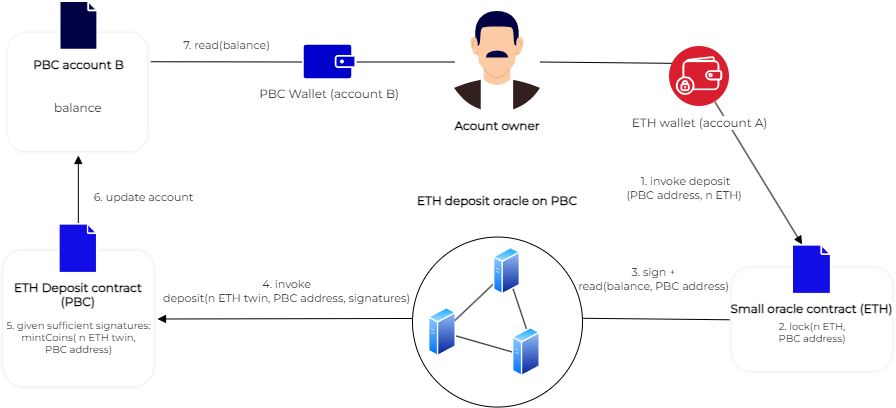
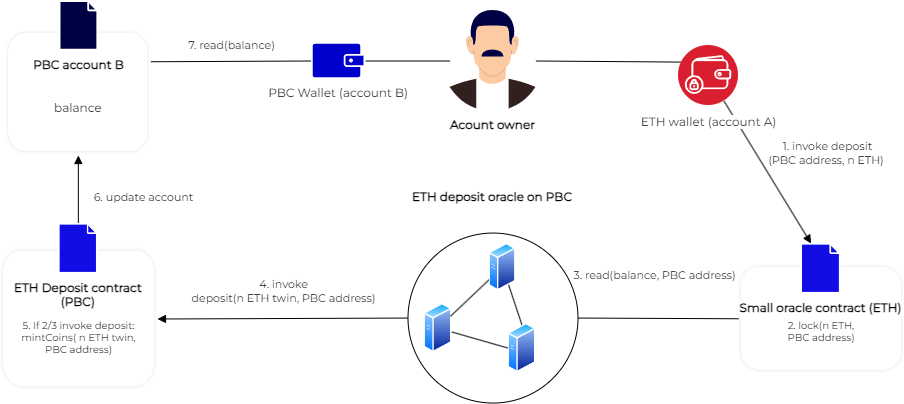
correct deposit flow, invoke does not require signatures

diff --git a/docs/pbc-fundamentals/bridging-byoc-by-sending-transactions.md b/docs/pbc-fundamentals/bridging-byoc-by-sending-transactions.md
@@ -40,9 +40,9 @@ deposit(bytes21 destination, uint amount)
 	* _bytes21_ is the receiving PBC address decoded to bytes 
 	* _amount_ is ETH converted to Wei, minimum amount is 0.1 ETH
 2. The contract locks n ETH
-3. By reading the incoming transaction on the [Small oracle contract on Ethereum](https://etherscan.io/address/0xf393d008077c97f2632fa04a910969ac58f88e3c#writeProxyContract) confirm the deposit has been made and generates the signatures   
-4. The action _deposit_ is invoked on [ETH Deposit](https://browser.partisiablockchain.com/contracts/045dbd4c13df987d7fb4450e54bcd94b34a80f2351/deposit) by the oracle 
-5. Given that there are enough valid signatures the contract mints n BYOC twins  
+3. The oracle nodes read the incoming transaction on the [Small oracle contract on Ethereum](https://etherscan.io/address/0xf393d008077c97f2632fa04a910969ac58f88e3c#writeProxyContract)    
+4. The action _deposit_ is invoked on [ETH Deposit](https://browser.partisiablockchain.com/contracts/045dbd4c13df987d7fb4450e54bcd94b34a80f2351/deposit) by the oracle nodes (the invocation requires 2/3 nodes invoke with same input) 
+5. Given that 2 of 3 oracle nodes invoked deposit the contract mints n BYOC twins  
 6. (n - fee) ETH are added to the balance PBC account B
 7. The PBC wallet will read the account balance, now the account owner have access to the deposited funds
 
